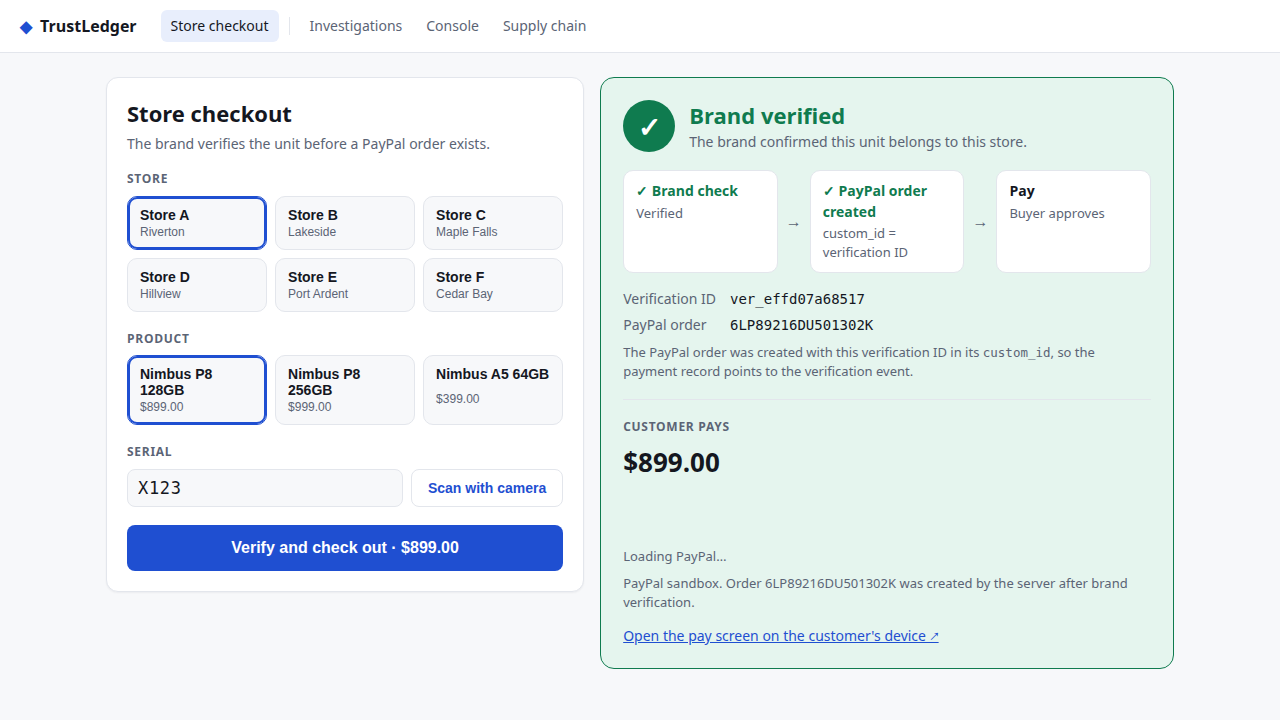
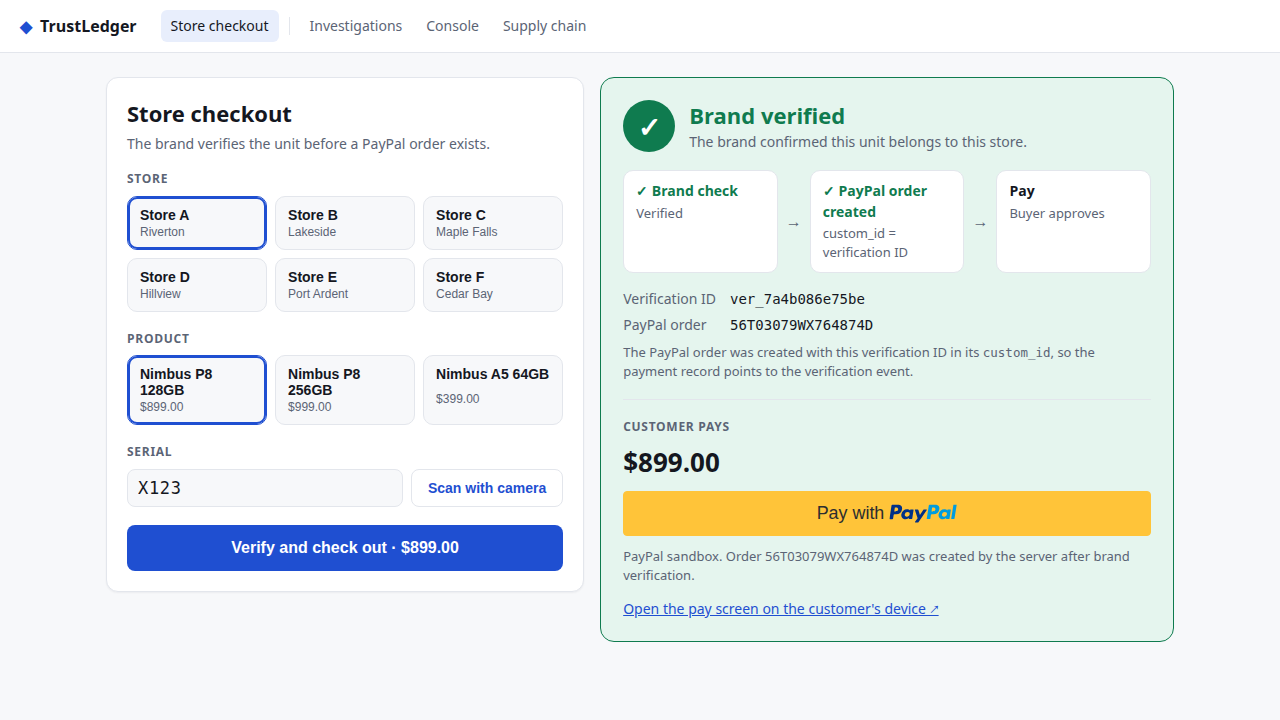
docs: address review comments on judge-facing README and media

Changed region(s): [[0.4688, 0.6722, 0.9062, 0.9167], [0.5625, 0.3972, 0.6875, 0.4583]]

diff --git a/scripts/screenshot_app.py b/scripts/screenshot_app.py
@@ -1,4 +1,5 @@
 import base64
+import json
 import os
 import time
 from playwright.sync_api import sync_playwright
@@ -23,11 +24,16 @@ def main():
         page.fill("#serial", "X123")
         page.click("button:has-text('Verify and check out')")
         page.wait_for_selector("text=Brand verified", timeout=15000)
-        time.sleep(1.2)
+        # Wait for PayPal container / buttons to load to avoid "Loading PayPal..."
+        try:
+            page.wait_for_selector("iframe, [class*='paypal-button'], text=Open the pay screen", timeout=6000)
+        except Exception:
+            pass
+        time.sleep(2.5)
         pos_a_path = os.path.join(DOCS_MEDIA, "01_pos_verified.png")
         page.screenshot(path=pos_a_path)
 
-        # 2. 02_pos_blocked.png: Store B blocked
+        # 2. 02_pos_blocked.png: Store B blocked & retrieve dynamic case_id
         print("Capturing 02_pos_blocked...")
         page.click("button:has-text('Store B')")
         page.fill("#serial", "X123")
@@ -37,7 +43,15 @@ def main():
         pos_b_path = os.path.join(DOCS_MEDIA, "02_pos_blocked.png")
         page.screenshot(path=pos_b_path)
 
-        # 3. 03_compare.png: Side-by-side split screen using base64 data URIs
+        # Dynamically discover case_id from the blocked verdict link
+        case_id = None
+        case_link = page.query_selector("a[href*='/cockpit/cases/']")
+        if case_link:
+            href = case_link.get_attribute("href")
+            case_id = href.split("/cockpit/cases/")[-1]
+            print(f"Discovered case_id: {case_id}")
+
+        # 3. 03_compare.png: Side-by-side split screen with no letterbox bars
         print("Capturing 03_compare...")
         with open(pos_a_path, "rb") as f:
             b64_a = base64.b64encode(f.read()).decode("utf-8")
@@ -50,10 +64,10 @@ def main():
         <head>
           <style>
             * {{ margin: 0; padding: 0; box-sizing: border-box; }}
-            body {{ background: #0b1220; display: flex; width: 1280px; height: 720px; overflow: hidden; font-family: -apple-system, BlinkMacSystemFont, "Segoe UI", Roboto, sans-serif; }}
-            .split {{ flex: 1; height: 100%; border-right: 2px solid #334155; position: relative; overflow: hidden; display: flex; align-items: center; justify-content: center; background: #070d18; }}
+            body {{ background: #0f172a; display: flex; width: 1280px; height: 720px; overflow: hidden; font-family: -apple-system, BlinkMacSystemFont, "Segoe UI", Roboto, sans-serif; }}
+            .split {{ flex: 1; height: 100%; border-right: 2px solid #334155; position: relative; overflow: hidden; display: flex; }}
             .split:last-child {{ border-right: none; }}
-            img {{ width: 100%; height: 100%; object-fit: contain; object-position: center; }}
+            img {{ width: 100%; height: 100%; object-fit: cover; object-position: 50% 12%; }}
             .badge {{ position: absolute; top: 20px; left: 20px; padding: 10px 18px; border-radius: 8px; font-weight: 700; font-size: 13px; text-transform: uppercase; letter-spacing: 0.05em; box-shadow: 0 4px 16px rgba(0,0,0,0.6); z-index: 10; }}
             .badge-verified {{ background: #10b981; color: #fff; }}
             .badge-blocked {{ background: #ef4444; color: #fff; }}
@@ -77,26 +91,37 @@ def main():
         split_page.screenshot(path=os.path.join(DOCS_MEDIA, "03_compare.png"))
         split_page.close()
 
-        # 4. 04_cockpit_case.png: Investigation case with agent steps
+        # 4. 04_cockpit_case.png: Investigation case with agent steps & citations
         print("Capturing 04_cockpit_case...")
-        page.goto("http://localhost:3000/cockpit/cases/case_af739ac755")
+        if case_id:
+            page.goto(f"http://localhost:3000/cockpit/cases/{case_id}")
+        else:
+            page.goto("http://localhost:3000/cockpit")
+            time.sleep(1.0)
+            cl = page.query_selector("a[href*='/cockpit/cases/']")
+            if cl:
+                cl.click()
         page.add_style_tag(content=hide_devtools)
         time.sleep(2.0)
         page.screenshot(path=os.path.join(DOCS_MEDIA, "04_cockpit_case.png"))
 
-        # 5. 05_console_aggregate.png: DP Console with queries and CI intervals
+        # 5. 05_console_aggregate.png: DP Console with PayPal query, results table, & ±CI
         print("Capturing 05_console_aggregate...")
         page.goto("http://localhost:3000/cockpit/console")
         page.add_style_tag(content=hide_devtools)
         time.sleep(1.5)
-        example_btn = page.query_selector("button:has-text('Where is Nimbus P8')")
-        if example_btn:
-            example_btn.click()
-            time.sleep(2.0)
-            run_btn = page.query_selector("button:has-text('Run')")
-            if run_btn:
-                run_btn.click()
-                time.sleep(2.0)
+        # Click the PayPal demographic question
+        pp_btn = page.wait_for_selector("button:has-text('buyers of NMB-P8-128')", timeout=10000)
+        pp_btn.click()
+        # Wait for planning to complete and Run button to become active
+        run_btn = page.wait_for_selector("button:has-text('Run')", timeout=15000)
+        run_btn.click()
+        # Wait for results table with CI or noise metadata
+        try:
+            page.wait_for_selector("text=Results, text=±", timeout=12000)
+        except Exception:
+            pass
+        time.sleep(2.0)
         page.screenshot(path=os.path.join(DOCS_MEDIA, "05_console_aggregate.png"))
 
         # 6. 06_supply_chain.png: Bryntum Supply Chain Gantt/Scheduler

diff --git a/README.md b/README.md
@@ -7,14 +7,14 @@
 
 **Make product authenticity a condition of payment.**
 
-TrustLedger bridges physical brand serialization and digital checkout. Before any PayPal order is created, the brand verifies the serialized unit against its verified supply chain. If genuine, PayPal creates the payment with the verification ID sealed in `custom_id`. If counterfeit or diverted, payment is blocked before money moves, and an autonomous AI agent investigates the leak using differential privacy aggregates.
+TrustLedger bridges physical brand serialization and digital checkout. Before any PayPal order is created, the brand verifies the serialized unit against its verified supply chain. If genuine, PayPal creates the payment with the verification ID stored in the order's `custom_id`. If counterfeit or diverted, payment is blocked before money moves, and an autonomous AI agent investigates the failure using differential privacy aggregates.
 
 ---
 
 ## 60-Second Tour
 
 ### 1. Store Checkout: Brand Verification Gating Payment
-When an authorized retailer scans a genuine unit, the brand confirms provenance. The platform calls the **PayPal Server SDK (generated via APIMatic)** to create an Order with the verification ID locked into `custom_id`.
+When an authorized retailer scans a genuine unit, the brand confirms provenance. The platform calls the **PayPal Server SDK (generated via APIMatic)** to create an Order with the verification ID stored in `custom_id`.
 
 ![Store A Verified](docs/media/01_pos_verified.png)
 
@@ -35,14 +35,14 @@ Authenticity is enforced at the commerce layer. Genuine units proceed smoothly t
 ---
 
 ### 4. Autonomous Brand Cockpit & Agent Investigation
-The brand's AI investigator automatically claims the case. Operating under strict differential privacy bounds, the agent queries brand distribution logs and federated PayPal data, discovering the exact point of supply chain diversion while citing individual audit steps.
+The brand's AI investigator automatically claims the case. Operating under strict differential privacy bounds, the agent queries brand distribution logs and federated PayPal data, discovering where the evidence diverges while citing individual audit steps.
 
 ![Cockpit Investigation Case](docs/media/04_cockpit_case.png)
 
 ---
 
 ### 5. Privacy Console: Zero-Concentrated Differential Privacy
-Security and privacy teams can plan and execute structured queries across siloed brand and payment nodes. Queries to PayPal buyer data pass through an **OpenDP Gaussian mechanism** with persistent privacy budgeting ($\rho = 0.25$ zCDP), dynamic confidence intervals, and automated cell suppression.
+Security and privacy teams can plan and execute structured queries across siloed brand and payment nodes. Queries to PayPal buyer data pass through an **OpenDP Gaussian mechanism** with persistent privacy budgeting ($\rho = 0.25$ zCDP), dynamic confidence intervals (±CI), and automated cell suppression.
 
 ![Privacy Console](docs/media/05_console_aggregate.png)
 
@@ -109,10 +109,10 @@ flowchart TD
 
 | Component | Status | Details |
 |---|---|---|
-| **PayPal Orders v2** | **Real (Sandbox)** | Orders v2 (`intent: CAPTURE`, verification ID in `custom_id`, order retrieval, and capture) implemented with the APIMatic-generated PayPal Server SDK (`paypal-server-sdk`), leveraging APIMatic's PayPal Context Plugin. See [docs/APIMATIC.md](docs/APIMATIC.md). |
+| **PayPal Orders v2** | **Real (Sandbox)** | Orders v2 (`intent: CAPTURE`, order retrieval, and capture) implemented with the APIMatic-generated PayPal Server SDK (`paypal-server-sdk`), leveraging APIMatic's PayPal Context Plugin (see [docs/APIMATIC.md](docs/APIMATIC.md)). Webhook signature verification and browser client token exchange call PayPal REST directly via httpx (as the server SDK does not provide endpoints for them). |
 | **Differential Privacy** | **Real (OpenDP)** | Zero-concentrated differential privacy (zCDP) Gaussian mechanism using OpenDP, per-buyer contribution bounding ($k=4$ cells, clamp 1000), persistent database budget ledger ($\rho=0.25$), response caching, and 95% confidence intervals. |
 | **Investigation Agent** | **Real (Live LLM)** | Multi-turn autonomous agent loop with structured tool calling (`query_brand_node`, `query_paypal_node`, `record_finding`), dynamic step budgeting, and evidence citations. |
-| **MCP Server** | **Real (Protocol)** | Model Context Protocol server exposing `verifyProduct` and `confirmSale` tools for autonomous AI shopping agents. |
+| **MCP Server** | **Real (Protocol)** | Model Context Protocol server generated with `openapi-mcp-generator` exposing `verifyProduct` and `confirmSale` tools for autonomous AI shopping agents. |
 | **UI Experience** | **Real** | Next.js 16 (Turbopack) & React 19 web suite featuring AG Grid Community tables, AG Charts Community visualizations, and Bryntum Scheduler supply chain timelines. |
 | **Brand Serialization** | **Simulated Node** | In production, brands maintain private ERP/serialization databases. Here, an isolated microservice (`backend/brand_node/`, port 8001) simulates the brand's private verification API. |
 | **Buyer Demographics** | **Simulated Data** | PayPal APIs do not expose customer demographic attributes. Synthetic demographic attributes demonstrate federated differential privacy across commerce nodes. |
@@ -124,12 +124,12 @@ flowchart TD
 
 ### Differential Privacy Red-Teaming
 TrustLedger underwent rigorous differential privacy red-teaming evaluating resistance against privacy extraction attacks:
-- **Result:** **220 of 220 reconstruction attacks blocked** across 20 repeated runs of 11 distinct attack archetypes (differencing, small cells, membership inference, cross-node linkage, averaging, budget exhaustion).
-- **Attacker Success Rate:** Baseline guess rate of **23%**, which is mathematically no better than random chance.
+- **Result:** **220 of 220 reconstruction attacks blocked** across 20 repeated runs of 11 distinct attack archetypes (differencing, small cells, membership inference, cross-node linkage, averaging, budget exhaustion). Attacker success was **0 of 220** (no attack exceeded the confidence threshold needed for linkage).
+- **Baseline Guess Accuracy:** An attacker guessing blindly achieved **23%**, matching random chance across candidate stores (20–33%).
 - **Report:** Full methodology, audit logs, and parameters documented in [evals/results/redteam_repeated.md](evals/results/redteam_repeated.md).
 
 ### Live Detection Evaluation
-- Placeholder for live detection evaluation benchmarks against real counterfeit diversion patterns (to be updated following overnight evaluation runs: [evals/results/live_detection.md](evals/results/live_detection.md)).
+- Placeholder for live detection evaluation benchmarks against real counterfeit diversion patterns (to be populated from live evaluation runs).
 
 ---
 
@@ -137,16 +137,16 @@ TrustLedger underwent rigorous differential privacy red-teaming evaluating resis
 
 1. **PayPal Server SDK (APIMatic)**:
    - Built with the official APIMatic PayPal Context Plugin.
-   - Powers backend order creation with `intent: CAPTURE`, strict currency handling, and cryptographic binding of brand verification IDs to `custom_id`.
+   - Powers backend order creation with `intent: CAPTURE`, strict currency handling, and storing the brand verification ID in the order's `custom_id`.
    - Comprehensive implementation details in [docs/APIMATIC.md](docs/APIMATIC.md).
-2. **AG Grid**:
+2. **AG Grid Community**:
    - Powers the high-performance investigations table in the Brand Cockpit (`/cockpit`), featuring responsive column pinning, status badges, and sub-second filtering.
 3. **Bryntum Scheduler**:
    - Delivers the interactive multi-tier supply chain visualization (`/cockpit/supply-chain`), displaying brand dispatches, distributor inventory, and store receipts across time.
 4. **OpenDP**:
    - Core mathematical foundation for the differential privacy Gaussian mechanism guaranteeing bounded privacy leakage on federated demographic analytics.
 5. **Render**:
-   - Multi-service deployment architecture connecting the web frontend, platform gateway, brand node, and PayPal node. See [docs/DEPLOY.md](docs/DEPLOY.md).
+   - All-in-one free-plan container / Render web service connecting the web frontend, platform gateway, brand node, and PayPal node. See [docs/DEPLOY.md](docs/DEPLOY.md).
 
 ---
 
